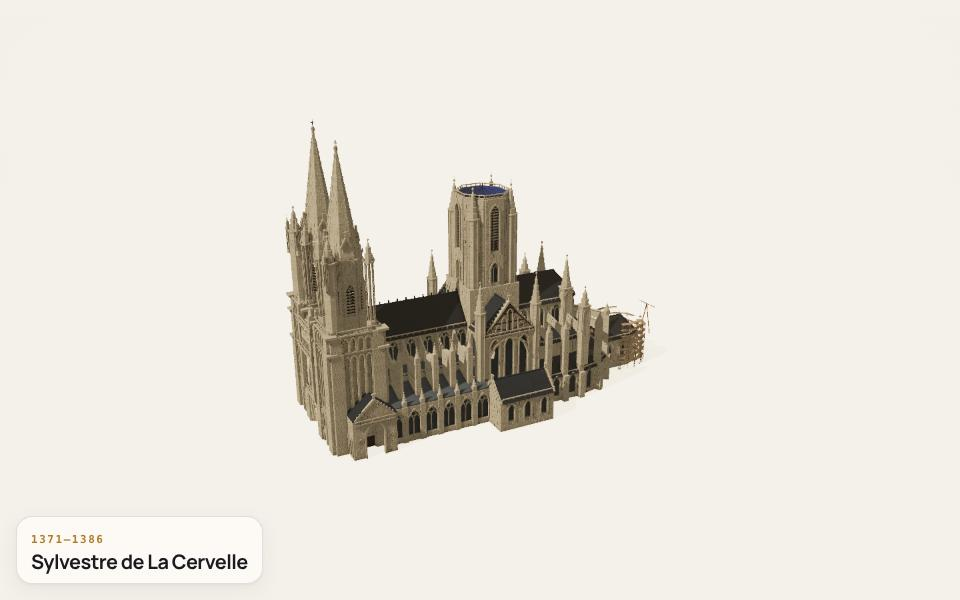
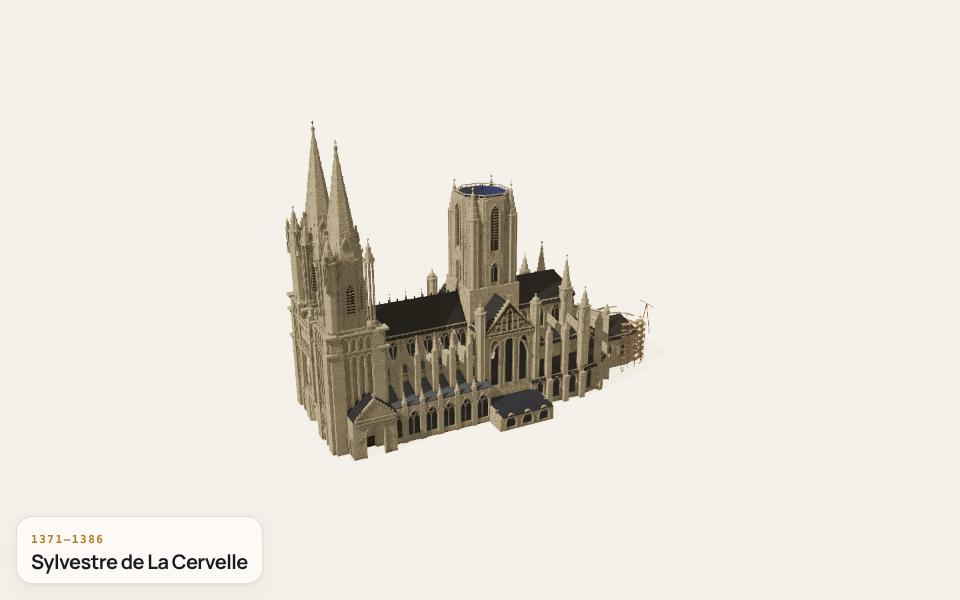
Coutances: lower the chapel of St John to what the photograph measures, and say what the comparisons hold
The last commit on Coutances says the five comparison sheets carry "photo-overlaid
overlays". They do not. Each overlay differs from its capture by 0.02 % of its pixels
(a 16 × 16 px broken-image icon at the top); the Parthenon's and Kinkaku-ji's differ
by 22 to 79 %. The photograph never loaded when they were shot, and the ledger's
"matched" rows lean on a check nobody made.

- The ten overlay files of the two passes are taken out, and so are their entries.
  The south transept keeps a real one: the copy of its photograph in the evidence
  folder, laid at half strength on the model from the fitted viewpoint (rms 1.1 %).
  The three lancets, the two cornices and the gable come out in register.
- validate.mjs refuses an overlay within 2 % of its capture's size. A real one is at
  least 10 % heavier (the lightest in the collection, 1.10); these were 1.001.

The overlay shows what the numbers could not: the chapel of St John in front of the
south transept, 8 m at the eaves under a ridge at 12.5 m, hides the transept's foot.
On the photograph, with its camera 1.9 m above the ground and 4.6 m from the wall,
the top of the wall stands about 3.9 m up (the earlier fit reads the ridge of that
range at 4 m, not 8). It is now 3.9 m with a low lean-to against the transept, one
pointed opening per bay, no balustrade. In the overview the range now stands below the
eaves of the aisle chapels (9.7 m) instead of rising over their roofs. The viewpoint and the end of every phase
[…]

diff --git a/community/cathedrale-de-coutances/cathedrale-de-coutances.evidence/compare/pass-2/index.html b/community/cathedrale-de-coutances/cathedrale-de-coutances.evidence/compare/pass-2/index.html
@@ -1,1 +1,1 @@
-<!doctype html><meta charset="utf-8"><title>Cathédrale Notre-Dame de Coutances · pass 2</title><style>body{margin:0;padding:16px;background:#111;color:#ddd;font:13px system-ui}section div{display:grid;grid-template-columns:1fr 1fr 1fr;gap:8px}img{width:100%;height:46vh;object-fit:contain;background:#222}h2{font-size:14px;margin:18px 0 6px}.strip{display:grid;grid-template-columns:repeat(4,1fr);gap:8px}.strip img{height:auto}</style><h1>Cathédrale Notre-Dame de Coutances · comparison pass 2</h1><p>Left: the reference photo. Middle: the model from the same viewpoint. Right: the photo laid over the model at half strength. Write what differs in evidence.comparisons.</p><section><h2>ref 0 · west, the front from the parvis (Xfigpower, 2011, CC BY-SA 3.0) · 272.8°, -18.1°</h2><div><img src="https://commons.wikimedia.org/wiki/Special:FilePath/Cath%C3%A9drale_Notre-Dame_de_Coutances_(nov_2011).jpg?width=900" alt="reference photo"><img src="ref-0.jpg" alt="model"><img src="overlay-0.jpg" alt="photo laid over the model"></div></section><section><h2>ref 1 · east, the chevet from the lawn behind it (Ikmo-ned, 2008, CC BY-SA 3.0) · 106.3°, -14.7°</h2><div><img src="https://commons.wikimedia.org/wiki/Special:FilePath/FranceNormandieCoutancesCathNotreDameChevet.jpg?width=900" alt="reference photo"><img src="ref-1.jpg" alt="model"><img src="overlay-1.jpg" alt="photo laid over the model"></div></section><section><h2>ref 2 · north-east, the chevet and the north side (cowbridgeguide.co.uk, 2014, CC BY 3.0) · 78.3°, -13.7°</h2><div><img src="https://commons.wikimedia.org/wiki/Special:FilePath/50200_Coutances,_France_-_panoramio_(1).jpg?width=900" alt="reference photo"><img src="ref-2.jpg" alt="model"><img src="overlay-2.jpg" alt="photo laid over the model"></div></section><section><h2>ref 3 · south, the nave chapels and the towers (Giogo, CC BY-SA 3.0) · 151.8°, -25.9°</h2><div><img src="https://commons.wikimedia.org/wiki/Special:FilePath/Bas-c%C3%B4t%C3%A9_sud_cath%C3%A9drale_Coutances_2a.jpg?width=900" alt="reference photo"><img src="ref-3.jpg" alt="model"><img src="overlay-3.jpg" alt="photo laid over the model"></div></section><h2>The end of every phase</h2><div class="strip"><figure><img src="phase-0.jpg" alt=""><figcaption>c. 1030–1056 · The Romanesque cathedral</figcaption></figure><figure><img src="phase-1.jpg" alt=""><figcaption>c. 1190–1230 · A Gothic skin on Romanesque walls</figcaption></figure><figure><img src="phase-2.jpg" alt=""><figcaption>c. 1208–1235 · Transept and lantern tower</figcaption></figure><figure><img src="phase-3.jpg" alt=""><figcaption>c. 1220–1238 · Choir and double ambulatory</figcaption></figure><figure><img src="phase-4.jpg" alt=""><figcaption>after 1228 · The lateral porches</figcaption></figure><figure><img src="phase-5.jpg" alt=""><figcaption>c. 1270–1315 · Chapels between the buttresses</figcaption></figure><figure><img src="phase-6.jpg" alt=""><figcaption>1371–1386 · Sylvestre de La Cervelle</figcaption></figure><figure><img src="phase-7.jpg" alt=""><figcaption>1800–1812 · Organ and high altar</figcaption></figure><figure><img src="phase-8.jpg" alt=""><figcaption>June 1944 · The lantern's roof on fire</figcaption></figure></div>
+<!doctype html><meta charset="utf-8"><title>Cathédrale Notre-Dame de Coutances · pass 2</title><style>body{margin:0;padding:16px;background:#111;color:#ddd;font:13px system-ui}section div{display:grid;grid-template-columns:1fr 1fr 1fr;gap:8px}img{width:100%;height:46vh;object-fit:contain;background:#222}h2{font-size:14px;margin:18px 0 6px}.strip{display:grid;grid-template-columns:repeat(4,1fr);gap:8px}.strip img{height:auto}</style><h1>Cathédrale Notre-Dame de Coutances · comparison pass 2</h1><p>Left: the reference photo. Middle: the model from the same viewpoint. Right: the photo laid over the model at half strength. Write what differs in evidence.comparisons.</p><section><h2>ref 0 · west, the front from the parvis (Xfigpower, 2011, CC BY-SA 3.0) · 272.8°, -18.1°</h2><div><img src="https://commons.wikimedia.org/wiki/Special:FilePath/Cath%C3%A9drale_Notre-Dame_de_Coutances_(nov_2011).jpg?width=900" alt="reference photo"><img src="ref-0.jpg" alt="model"><span></span></div></section><section><h2>ref 1 · east, the chevet from the lawn behind it (Ikmo-ned, 2008, CC BY-SA 3.0) · 106.3°, -14.7°</h2><div><img src="https://commons.wikimedia.org/wiki/Special:FilePath/FranceNormandieCoutancesCathNotreDameChevet.jpg?width=900" alt="reference photo"><img src="ref-1.jpg" alt="model"><span></span></div></section><section><h2>ref 2 · north-east, the chevet and the north side (cowbridgeguide.co.uk, 2014, CC BY 3.0) · 78.3°, -13.7°</h2><div><img src="https://commons.wikimedia.org/wiki/Special:FilePath/50200_Coutances,_France_-_panoramio_(1).jpg?width=900" alt="reference photo"><img src="ref-2.jpg" alt="model"><span></span></div></section><section><h2>ref 3 · south, the nave chapels and the towers (Giogo, CC BY-SA 3.0) · 151.8°, -25.9°</h2><div><img src="https://commons.wikimedia.org/wiki/Special:FilePath/Bas-c%C3%B4t%C3%A9_sud_cath%C3%A9drale_Coutances_2a.jpg?width=900" alt="reference photo"><img src="ref-3.jpg" alt="model"><span></span></div></section><h2>The end of every phase</h2><div class="strip"><figure><img src="phase-0.jpg" alt=""><figcaption>c. 1030–1056 · The Romanesque cathedral</figcaption></figure><figure><img src="phase-1.jpg" alt=""><figcaption>c. 1190–1230 · A Gothic skin on Romanesque walls</figcaption></figure><figure><img src="phase-2.jpg" alt=""><figcaption>c. 1208–1235 · Transept and lantern tower</figcaption></figure><figure><img src="phase-3.jpg" alt=""><figcaption>c. 1220–1238 · Choir and double ambulatory</figcaption></figure><figure><img src="phase-4.jpg" alt=""><figcaption>after 1228 · The lateral porches</figcaption></figure><figure><img src="phase-5.jpg" alt=""><figcaption>c. 1270–1315 · Chapels between the buttresses</figcaption></figure><figure><img src="phase-6.jpg" alt=""><figcaption>1371–1386 · Sylvestre de La Cervelle</figcaption></figure><figure><img src="phase-7.jpg" alt=""><figcaption>1800–1812 · Organ and high altar</figcaption></figure><figure><img src="phase-8.jpg" alt=""><figcaption>June 1944 · The lantern's roof on fire</figcaption></figure></div>

diff --git a/community/cathedrale-de-coutances/cathedrale-de-coutances.evidence/compare/pass-1/index.html b/community/cathedrale-de-coutances/cathedrale-de-coutances.evidence/compare/pass-1/index.html
@@ -1,1 +1,1 @@
-<!doctype html><meta charset="utf-8"><title>Cathédrale Notre-Dame de Coutances · pass 1</title><style>body{margin:0;padding:16px;background:#111;color:#ddd;font:13px system-ui}section div{display:grid;grid-template-columns:1fr 1fr 1fr;gap:8px}img{width:100%;height:46vh;object-fit:contain;background:#222}h2{font-size:14px;margin:18px 0 6px}.strip{display:grid;grid-template-columns:repeat(4,1fr);gap:8px}.strip img{height:auto}</style><h1>Cathédrale Notre-Dame de Coutances · comparison pass 1</h1><p>Left: the reference photo. Middle: the model from the same viewpoint. Right: the photo laid over the model at half strength. Write what differs in evidence.comparisons.</p><section><h2>ref 0 · west, the front from the parvis (Xfigpower, 2011, CC BY-SA 3.0) · 272.8°, -18.1°</h2><div><img src="https://commons.wikimedia.org/wiki/Special:FilePath/Cath%C3%A9drale_Notre-Dame_de_Coutances_(nov_2011).jpg?width=900" alt="reference photo"><img src="ref-0.jpg" alt="model"><img src="overlay-0.jpg" alt="photo laid over the model"></div></section><section><h2>ref 1 · east, the chevet from the lawn behind it (Ikmo-ned, 2008, CC BY-SA 3.0) · 106.3°, -14.7°</h2><div><img src="https://commons.wikimedia.org/wiki/Special:FilePath/FranceNormandieCoutancesCathNotreDameChevet.jpg?width=900" alt="reference photo"><img src="ref-1.jpg" alt="model"><img src="overlay-1.jpg" alt="photo laid over the model"></div></section><section><h2>ref 2 · north-east, the chevet and the north side (cowbridgeguide.co.uk, 2014, CC BY 3.0) · 78.3°, -13.7°</h2><div><img src="https://commons.wikimedia.org/wiki/Special:FilePath/50200_Coutances,_France_-_panoramio_(1).jpg?width=900" alt="reference photo"><img src="ref-2.jpg" alt="model"><img src="overlay-2.jpg" alt="photo laid over the model"></div></section><section><h2>ref 3 · south, the nave chapels and the towers (Giogo, CC BY-SA 3.0) · 151.8°, -25.9°</h2><div><img src="https://commons.wikimedia.org/wiki/Special:FilePath/Bas-c%C3%B4t%C3%A9_sud_cath%C3%A9drale_Coutances_2a.jpg?width=900" alt="reference photo"><img src="ref-3.jpg" alt="model"><img src="overlay-3.jpg" alt="photo laid over the model"></div></section>
+<!doctype html><meta charset="utf-8"><title>Cathédrale Notre-Dame de Coutances · pass 1</title><style>body{margin:0;padding:16px;background:#111;color:#ddd;font:13px system-ui}section div{display:grid;grid-template-columns:1fr 1fr 1fr;gap:8px}img{width:100%;height:46vh;object-fit:contain;background:#222}h2{font-size:14px;margin:18px 0 6px}.strip{display:grid;grid-template-columns:repeat(4,1fr);gap:8px}.strip img{height:auto}</style><h1>Cathédrale Notre-Dame de Coutances · comparison pass 1</h1><p>Left: the reference photo. Middle: the model from the same viewpoint. Right: the photo laid over the model at half strength. Write what differs in evidence.comparisons.</p><section><h2>ref 0 · west, the front from the parvis (Xfigpower, 2011, CC BY-SA 3.0) · 272.8°, -18.1°</h2><div><img src="https://commons.wikimedia.org/wiki/Special:FilePath/Cath%C3%A9drale_Notre-Dame_de_Coutances_(nov_2011).jpg?width=900" alt="reference photo"><img src="ref-0.jpg" alt="model"><span></span></div></section><section><h2>ref 1 · east, the chevet from the lawn behind it (Ikmo-ned, 2008, CC BY-SA 3.0) · 106.3°, -14.7°</h2><div><img src="https://commons.wikimedia.org/wiki/Special:FilePath/FranceNormandieCoutancesCathNotreDameChevet.jpg?width=900" alt="reference photo"><img src="ref-1.jpg" alt="model"><span></span></div></section><section><h2>ref 2 · north-east, the chevet and the north side (cowbridgeguide.co.uk, 2014, CC BY 3.0) · 78.3°, -13.7°</h2><div><img src="https://commons.wikimedia.org/wiki/Special:FilePath/50200_Coutances,_France_-_panoramio_(1).jpg?width=900" alt="reference photo"><img src="ref-2.jpg" alt="model"><span></span></div></section><section><h2>ref 3 · south, the nave chapels and the towers (Giogo, CC BY-SA 3.0) · 151.8°, -25.9°</h2><div><img src="https://commons.wikimedia.org/wiki/Special:FilePath/Bas-c%C3%B4t%C3%A9_sud_cath%C3%A9drale_Coutances_2a.jpg?width=900" alt="reference photo"><img src="ref-3.jpg" alt="model"><span></span></div></section>
